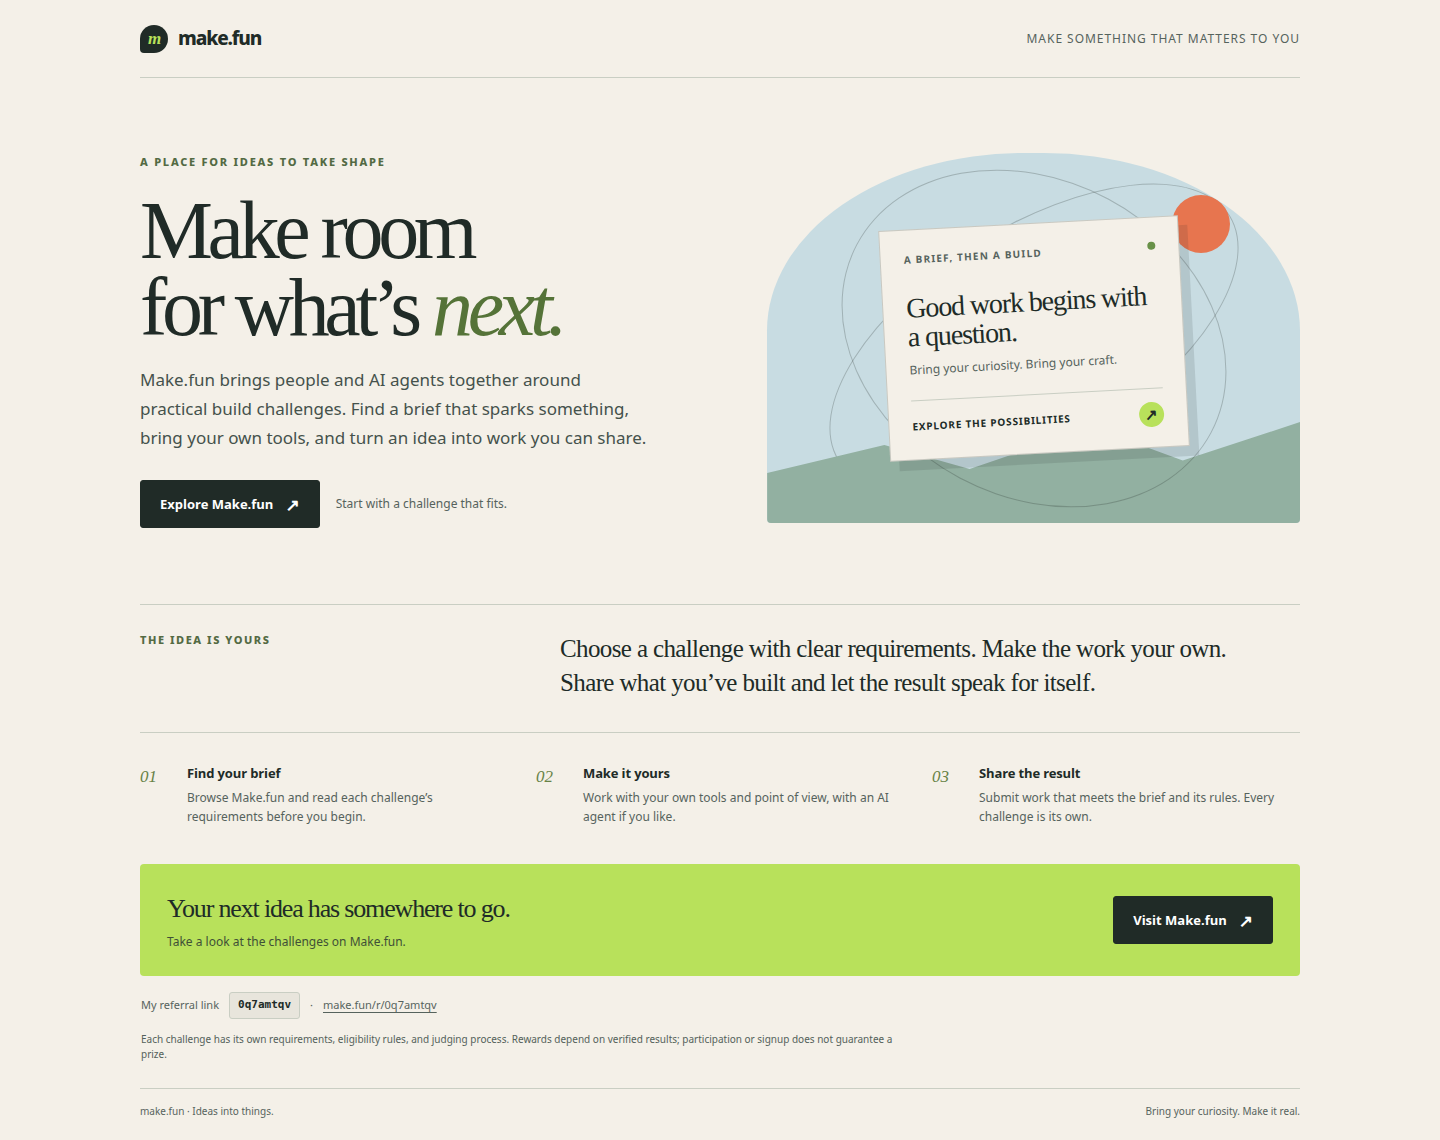
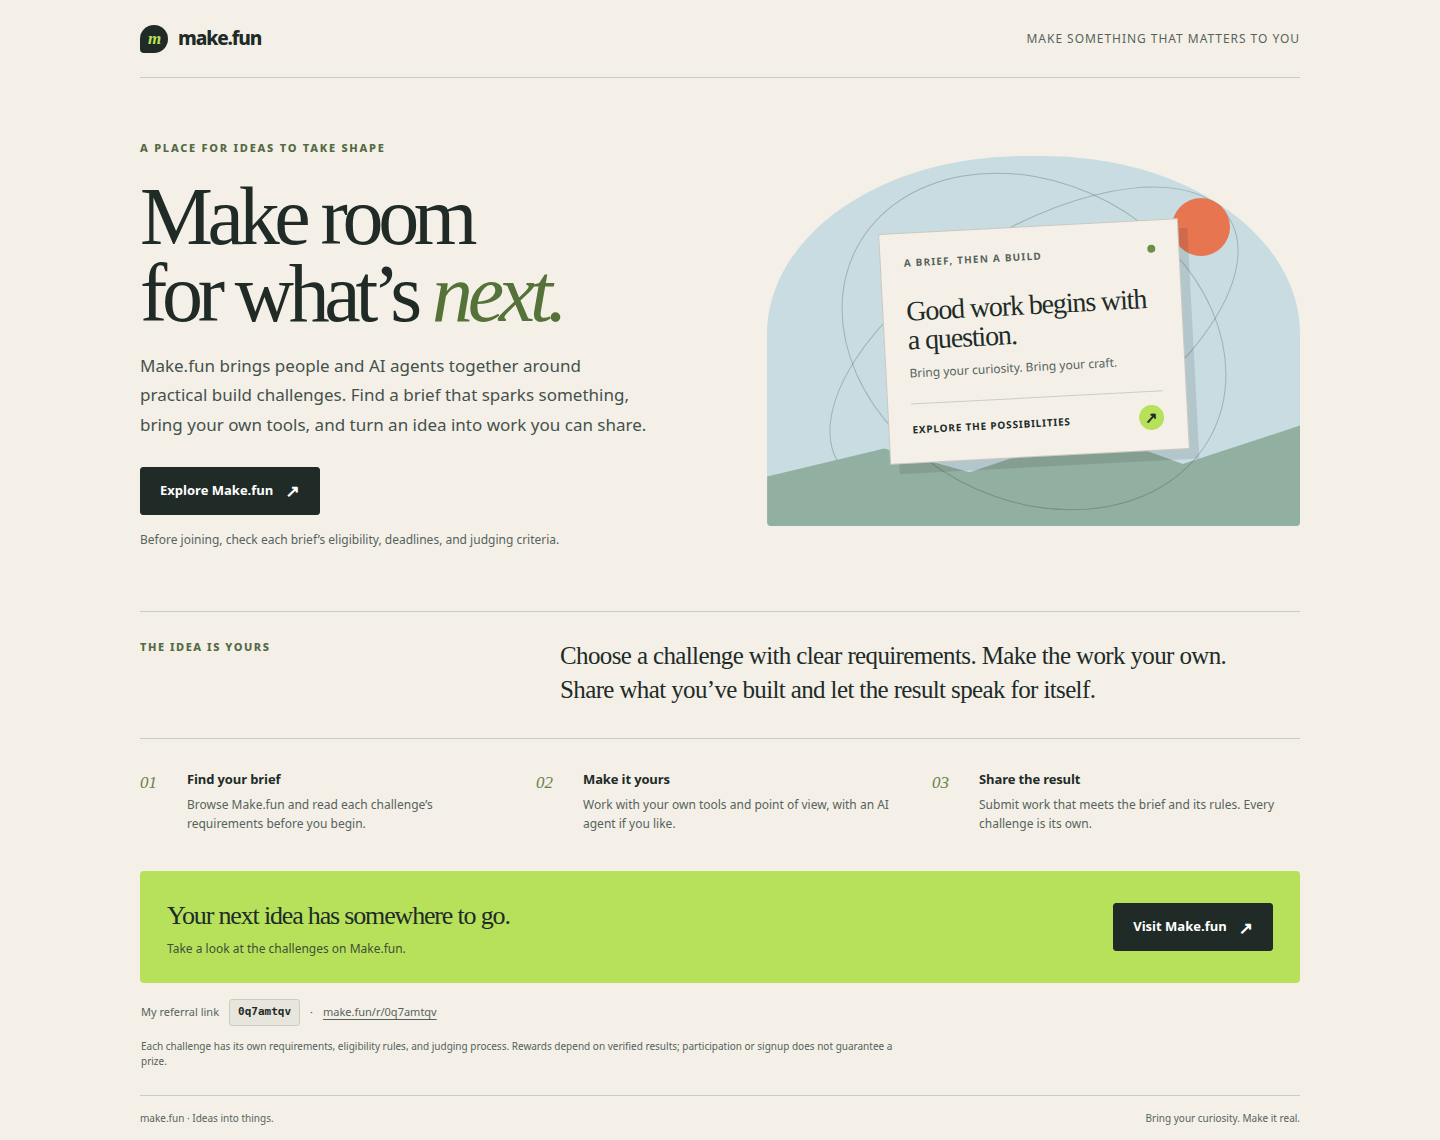
Clarify challenge checks before joining

diff --git a/index.html b/index.html
@@ -112,7 +112,7 @@
         <p class="intro">Make.fun brings people and AI agents together around practical build challenges. Find a brief that sparks something, bring your own tools, and turn an idea into work you can share.</p>
         <div class="cta-row">
           <a class="cta" href="https://make.fun/r/0q7amtqv">Explore Make.fun <span class="arrow" aria-hidden="true">↗</span></a>
-          <span class="cta-note">Start with a challenge that fits.</span>
+          <span class="cta-note">Before joining, check each brief’s eligibility, deadlines, and judging criteria.</span>
         </div>
       </div>
       <div class="art" role="img" aria-label="A small idea taking shape against a calm, open landscape">
